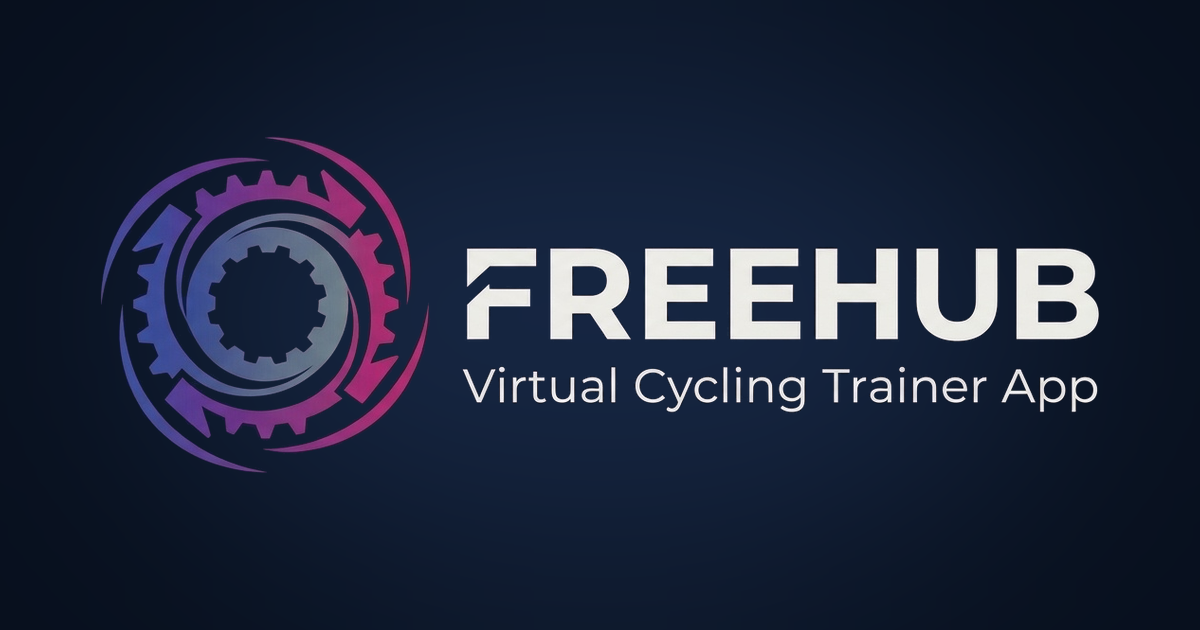
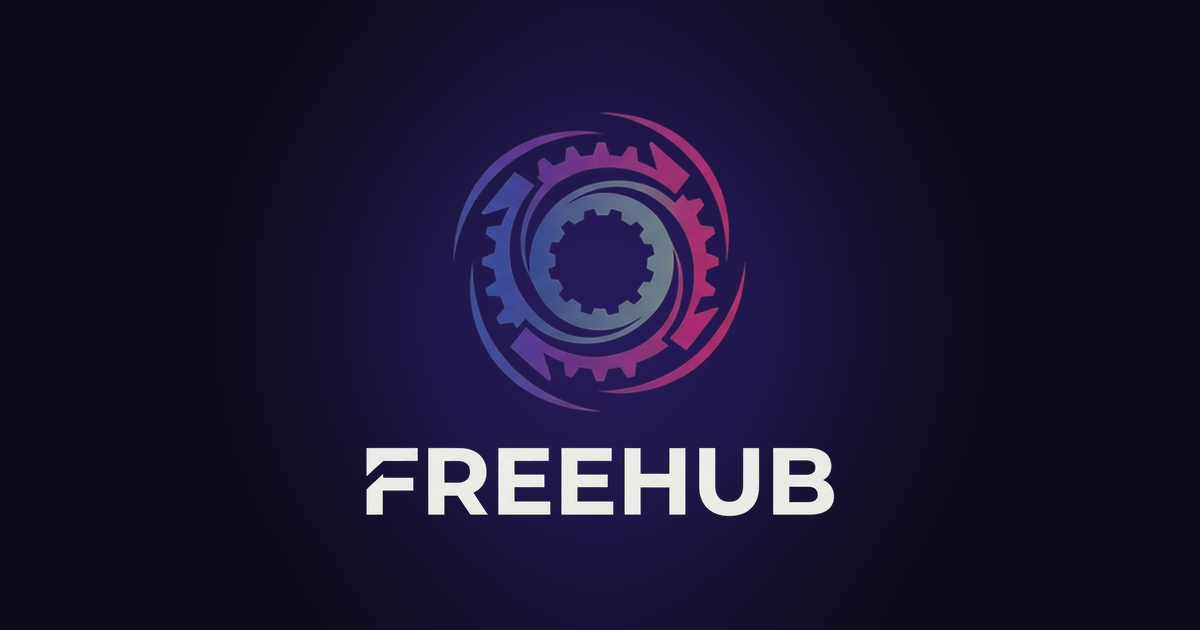
Share image: centred mark with FREEHUB wordmark below (survives square crop) (#16)
Claude-Session: https://claude.ai/code/session_011yydybRxRLfwhq97m6vc2B

Changed region(s): [[0.0617, 0.181, 0.925, 0.8444]]

diff --git a/public/index.html b/public/index.html
@@ -11,11 +11,11 @@
 <meta property="og:title" content="Freehub: Virtual Cycling Trainer App">
 <meta property="og:description" content="Free in your browser. Connect your smart trainer, ride workouts and routes, and send rides to Strava.">
 <meta property="og:url" content="https://graemedoherty.github.io/Freehub/">
-<meta property="og:image" content="https://graemedoherty.github.io/Freehub/images/share.png">
+<meta property="og:image" content="https://graemedoherty.github.io/Freehub/images/share.png?v=2">
 <meta property="og:image:width" content="1200">
 <meta property="og:image:height" content="630">
 <meta name="twitter:card" content="summary_large_image">
-<meta name="twitter:image" content="https://graemedoherty.github.io/Freehub/images/share.png">
+<meta name="twitter:image" content="https://graemedoherty.github.io/Freehub/images/share.png?v=2">
 <meta name="viewport" content="width=device-width, initial-scale=1, viewport-fit=cover">
 <meta name="theme-color" content="#5b3fd6">
 <style>
